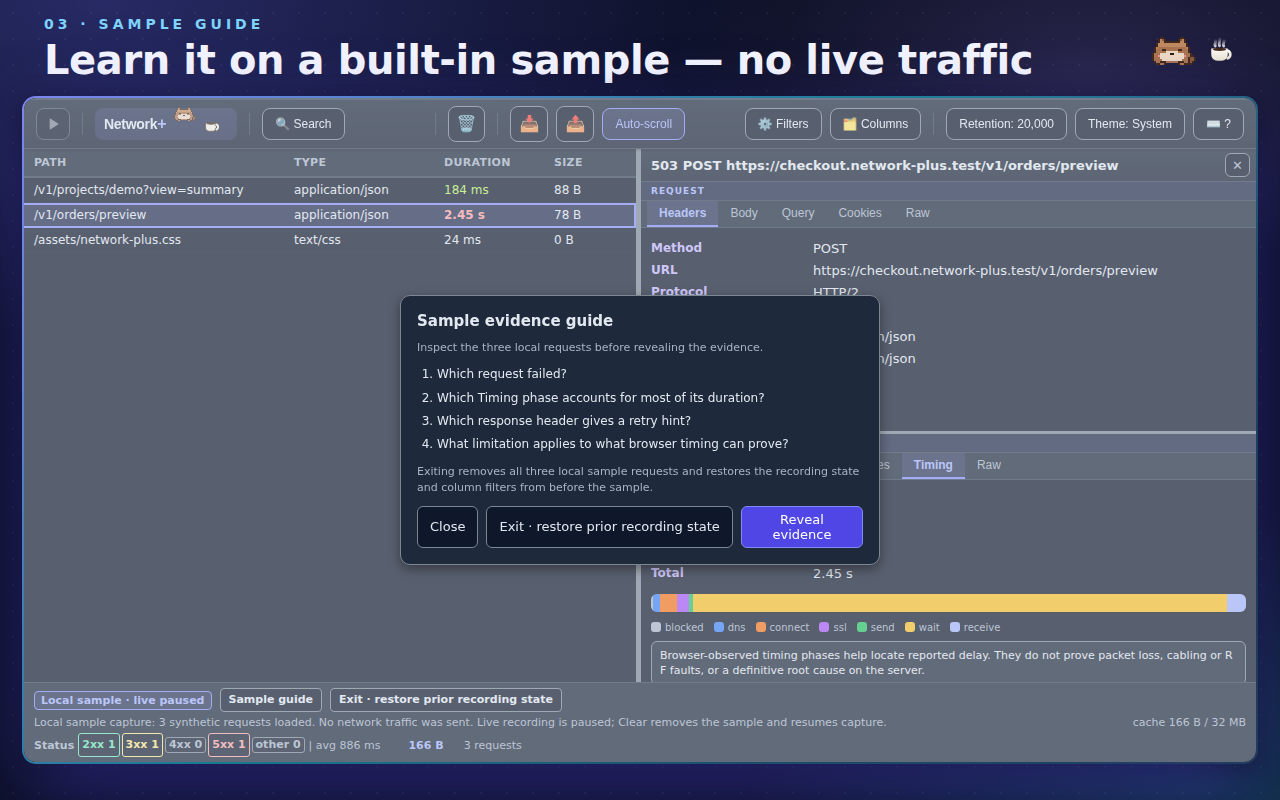
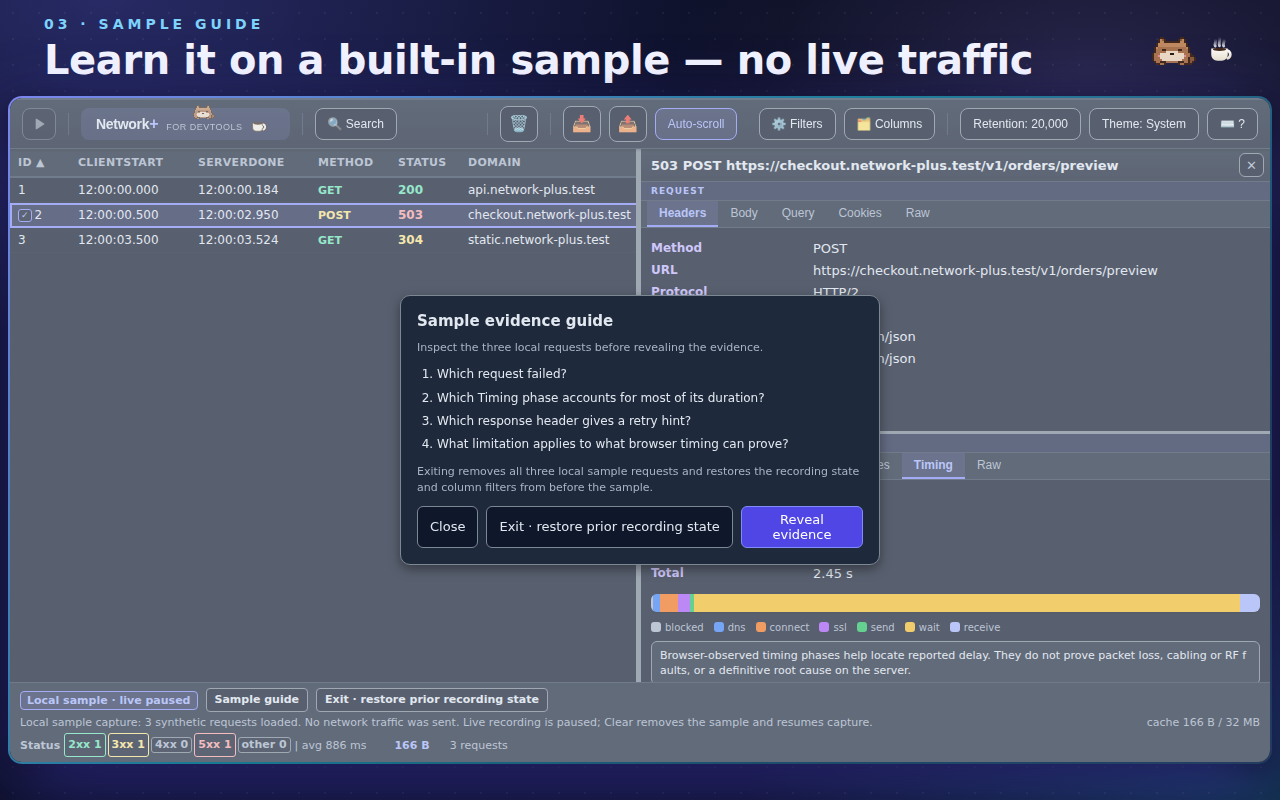
fix: show the for DevTools sub-label from 1255px up
The brand pill was hiding its sub-label below 1367px — far above the
width where the words actually stop fitting — so at common desktop
panel widths the pill read as bare Network+ and the label looked
removed. Measured with the label visible, every toolbar control fits
without horizontal scrolling from 1249px; the compact cutoff moves to
1254px (margin for font-metric jitter), and the browser suite now
asserts the new invariant at both boundary widths: wherever the words
are visible, nothing needs scrolling to reach, and below that the otter
keeps its fixed 22px perch.

The four store screenshots are recaptured at a 1260px panel so the
listing shows the full brand — wordmark, sub-label, perched sprite,
and cup.

Claude-Session: https://claude.ai/code/session_0124M1SVHRgJnNrGMbz4rPpK

diff --git a/tests/status-summary-browser.test.js b/tests/status-summary-browser.test.js
@@ -15,7 +15,7 @@ const BROWSER_REQUIRED_IN_CI_MESSAGE =
   'Real-browser regression tests require an executable Chrome or Edge in CI. ' +
   'Set EDGE_BIN or CHROME_BIN to an executable browser path.';
 const TRANSIENT_PROFILE_CLEANUP_ERRORS = new Set(['ENOTEMPTY', 'EBUSY']);
-const TOOLBAR_VIEWPORT_WIDTHS = [375, 500, 800, 1280, 1366, 1367, 1500];
+const TOOLBAR_VIEWPORT_WIDTHS = [375, 500, 800, 1254, 1255, 1280, 1500];
 const TOOLBAR_FOCUS_VIEWPORT_WIDTHS = [375, 500, 800, 1280];
 const GRID_FOCUS_VIEWPORT_WIDTHS = [375, 500, 800, 1280];
 const STATUS_WORKSPACE_VIEWPORT_WIDTHS = [320, 375, 414, 768, 1280];
@@ -2728,25 +2728,25 @@ browserTest(
       }
       expect(viewportMeasurements.slice(0, 3).every((measurement) => measurement.toolbarOverflow > 0)).toBe(true);
       const measurementsByWidth = new Map(viewportMeasurements.map((measurement) => [measurement.width, measurement]));
-      const desktopMeasurement = measurementsByWidth.get(1280);
-      expect(desktopMeasurement.toolbarOverflow).toBe(0);
-      expect(desktopMeasurement.actions.every((action) => action.fullyVisible)).toBe(true);
-      expect(desktopMeasurement.brandDisplay).not.toBe('none');
-      expect(desktopMeasurement.brandSubtitleDisplay).toBe('none');
-      expect(desktopMeasurement.brandWidth).toBeLessThan(150);
-      // Compact mode drops only the sub-label words; the cat keeps a fixed
-      // 22px perch between the wordmark and the cup, inside symmetric paddings.
-      expect(desktopMeasurement.brandPaddingLeft).toBe('8px');
-      expect(desktopMeasurement.brandPaddingRight).toBe('8px');
-
-      const compactBoundaryMeasurement = measurementsByWidth.get(1366);
+      // The "for DevTools" sub-label hides only below the width where every
+      // toolbar control still fits beside it (the full toolbar fits from
+      // 1249px; 1254px adds margin for font-metric jitter). Wherever the
+      // label is visible, nothing may need scrolling to reach.
+      const compactBoundaryMeasurement = measurementsByWidth.get(1254);
       expect(compactBoundaryMeasurement.brandSubtitleDisplay).toBe('none');
+      expect(compactBoundaryMeasurement.brandWidth).toBeLessThan(150);
+      // Compact mode drops only the sub-label words; the otter keeps a fixed
+      // 22px perch between the wordmark and the cup, inside symmetric paddings.
       expect(compactBoundaryMeasurement.brandPaddingLeft).toBe('8px');
       expect(compactBoundaryMeasurement.brandPaddingRight).toBe('8px');
 
-      const wideBoundaryMeasurement = measurementsByWidth.get(1367);
+      const wideBoundaryMeasurement = measurementsByWidth.get(1255);
+      const desktopMeasurement = measurementsByWidth.get(1280);
       const wideMeasurement = measurementsByWidth.get(1500);
-      for (const measurement of [wideBoundaryMeasurement, wideMeasurement]) {
+      for (const measurement of [wideBoundaryMeasurement, desktopMeasurement, wideMeasurement]) {
+        expect(measurement.toolbarOverflow).toBe(0);
+        expect(measurement.actions.every((action) => action.fullyVisible)).toBe(true);
+        expect(measurement.brandDisplay).not.toBe('none');
         expect(measurement.brandSubtitleDisplay).not.toBe('none');
         expect(measurement.brandPaddingLeft).toBe('14px');
         expect(measurement.brandPaddingRight).toBe('14px');

diff --git a/tests/browser-availability-policy.test.js b/tests/browser-availability-policy.test.js
@@ -396,7 +396,7 @@ const replaceWithAlternateLayout = (source, pattern, layouts, mutationName) => {
 const VIEWPORT_CONTRACTS = [
   {
     constantName: 'TOOLBAR_VIEWPORT_WIDTHS',
-    expectedWidths: [375, 500, 800, 1280, 1366, 1367, 1500],
+    expectedWidths: [375, 500, 800, 1254, 1255, 1280, 1500],
     journeyTitle: TOOLBAR_FOCUS_JOURNEY_TITLE,
   },
   {
@@ -533,7 +533,7 @@ test.each([
 );
 
 test('locks toolbar branding coverage to both exact sides of the content breakpoint', () => {
-  assertExactViewportWidths(browserSuiteSource, 'TOOLBAR_VIEWPORT_WIDTHS', [375, 500, 800, 1280, 1366, 1367, 1500]);
+  assertExactViewportWidths(browserSuiteSource, 'TOOLBAR_VIEWPORT_WIDTHS', [375, 500, 800, 1254, 1255, 1280, 1500]);
 });
 
 test('locks toolbar focus coverage to narrow, stacked, and split layouts', () => {

diff --git a/panel.css b/panel.css
@@ -156,7 +156,7 @@ html[data-theme="light"]{
 .topbar.paused{border-top:2px solid var(--border)}
 .topbar.recording{border-top:2px solid var(--status-5xx-text)}
 .topbar.recording #pauseBtn{color:var(--status-5xx-text)}
-@media (max-width:1366px){
+@media (max-width:1254px){
   .topbar button.brand{padding:3px 8px}
   .brand-sub-text{display:none}
   .brand-sub{width:22px;height:11px}

diff --git a/docs/CHANGELOG.md b/docs/CHANGELOG.md
@@ -5,6 +5,7 @@ All notable changes to Network+ for DevTools. Versions follow [Semantic Versioni
 ## Unreleased
 
 - The mascot is now an otter, in the toolbar brand mark and the support dialog alike — and the toolbar mark is now pixel art. At its real 15-pixel height, smooth vector shapes rasterized into mush, so the mark is a hand-placed 22x15 sprite drawn at exactly one device pixel per cell with `crispEdges`. Two full sprites ship in the markup: asleep (shut eyes, blush, a drifting z), and a woken frame that hover or focus cuts to instantly, ears perked and a magnifying glass raised — the investigator motif this network inspector deserves. The idle breathing tween became a two-frame `steps()` bob, so every frame stays on the pixel grid. The support dialog keeps its larger smooth vector otter, where there is room for curves, and all motion still stops under `prefers-reduced-motion`.
+- The “for DevTools” sub-label is visible again at common desktop panel widths. The brand pill had been dropping it below 1367px — far above the width where it actually stops fitting — so most panels never showed the words at all. It now hides only below 1255px, the measured point (plus a margin for font-metric jitter) where showing it would push toolbar controls into horizontal scrolling, and whenever the words are visible every control still fits without scrolling. The otter keeps its fixed 22px perch while the words are hidden.
 - Remade the four store screenshots as dark, numbered compositions: the panel is captured in its real dark theme at final pixel size and set unscaled inside a gradient-ring frame on a deep-indigo glowing canvas, each with a step eyebrow (01-04) and a white headline. The intended display order is now part of the file names (`screenshot-1-…` through `screenshot-4-…`), since the stores show screenshots in upload order and the old names carried no ordering at all.
 - The promotional tile is the original otter-investigator illustration again, byte-for-byte, and the new 1400x560 marquee keeps the icon-centerpiece layout while placing that same illustrated otter — cut out of the tile art, not redrawn — beside the icon, with the wordmark and feature tagline on the right. The tile stays text-free. The marquee doubles as the Microsoft Edge Large promotional tile, which uses the same dimensions per the Partner Center listing guide.
 - Redesigned the store listing media. A 1400x560 marquee promo is new, so the listing qualifies for featured placements; the four screenshots are now compositions — a one-line headline over an unscaled, natively captured panel view, so the pixels stay sharp — and the README tour GIF opens with a brand title card and captions each of its four steps. Every asset remains synthetic-only and is size- and provenance-checked by `store:check`.
